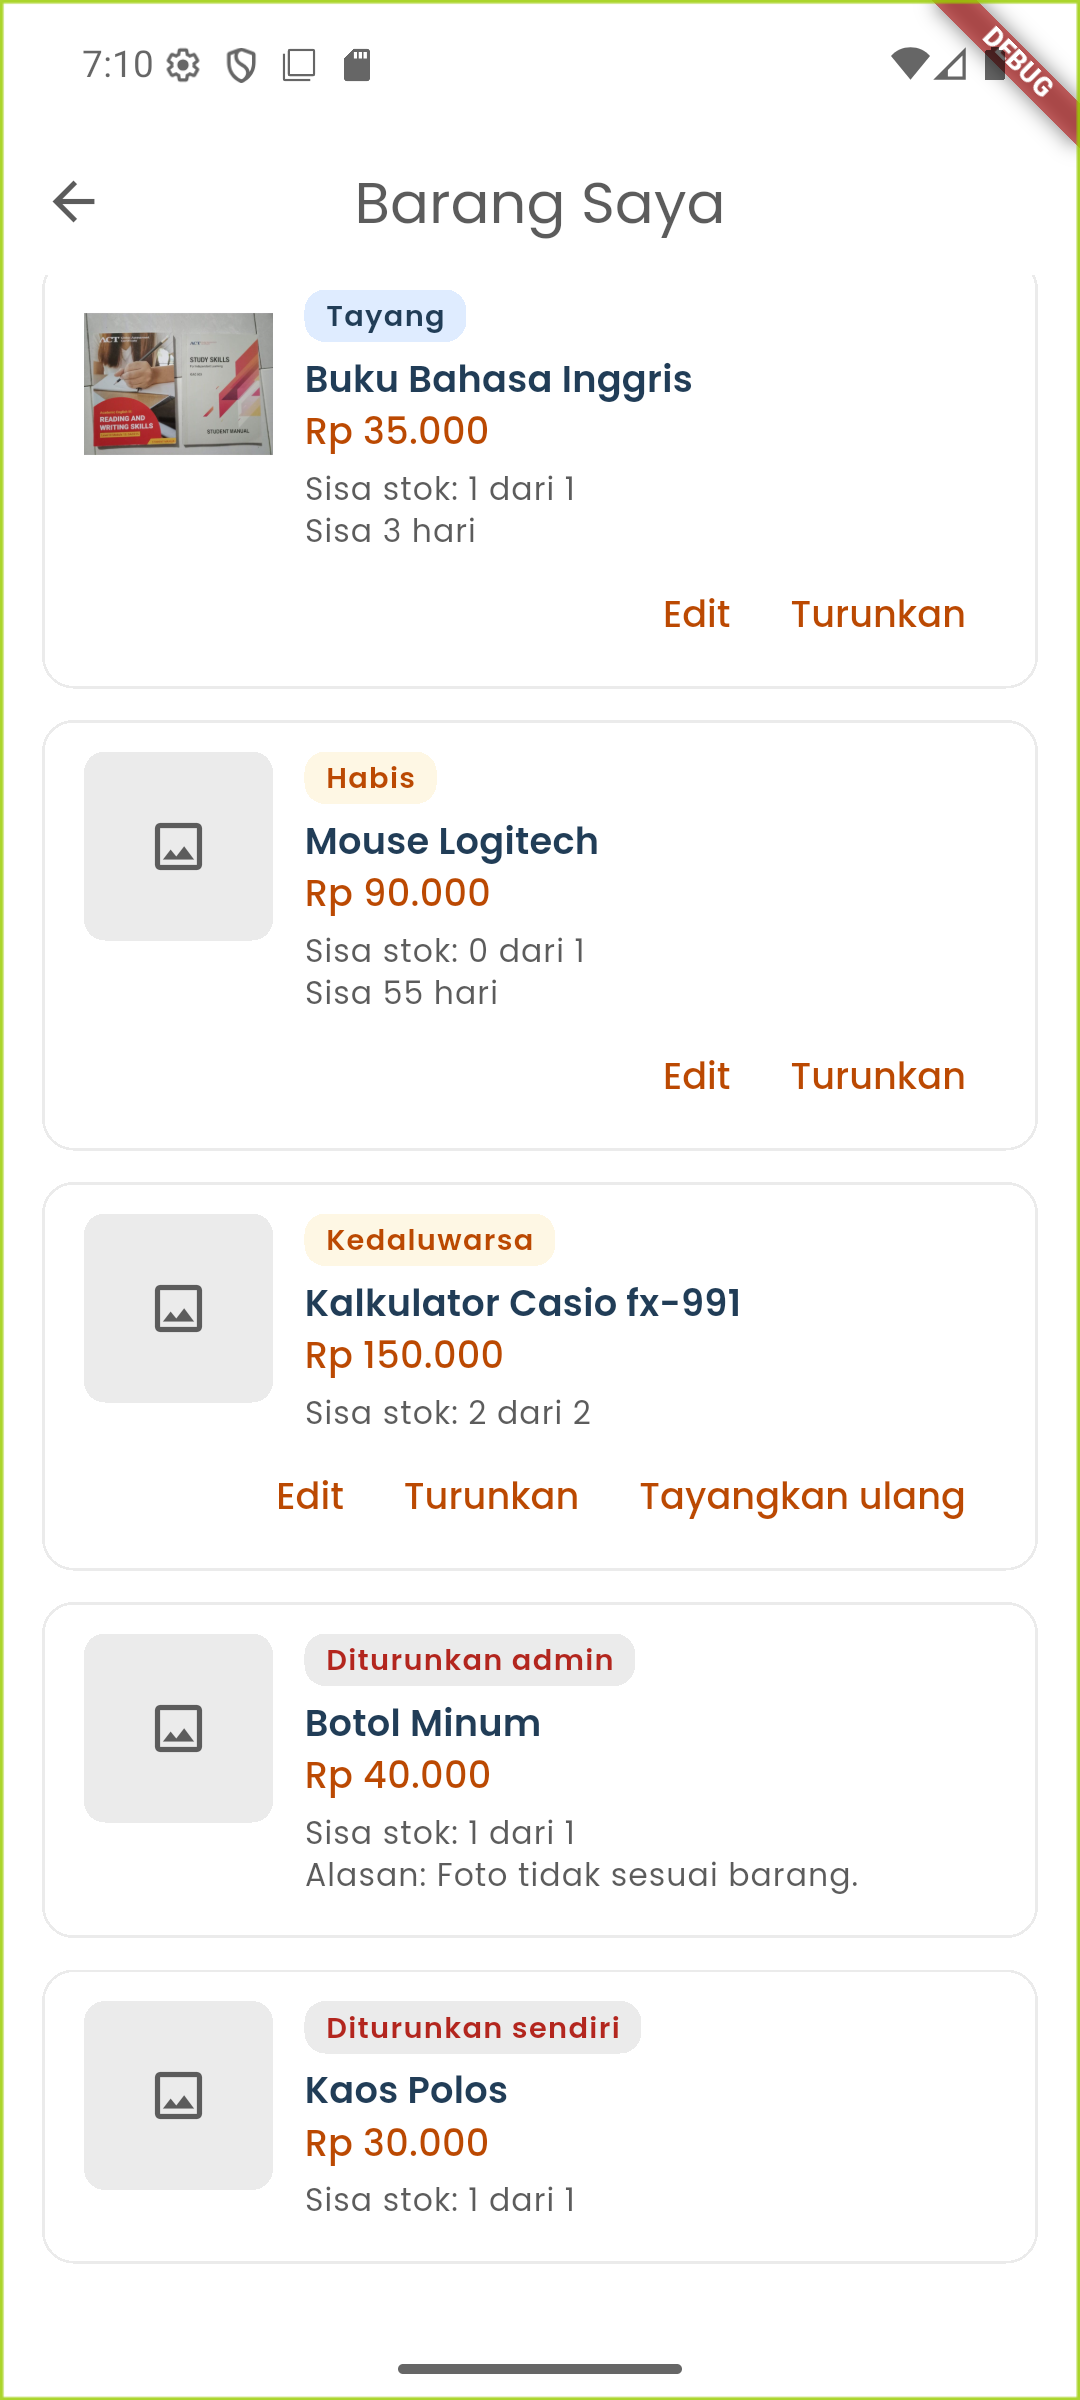
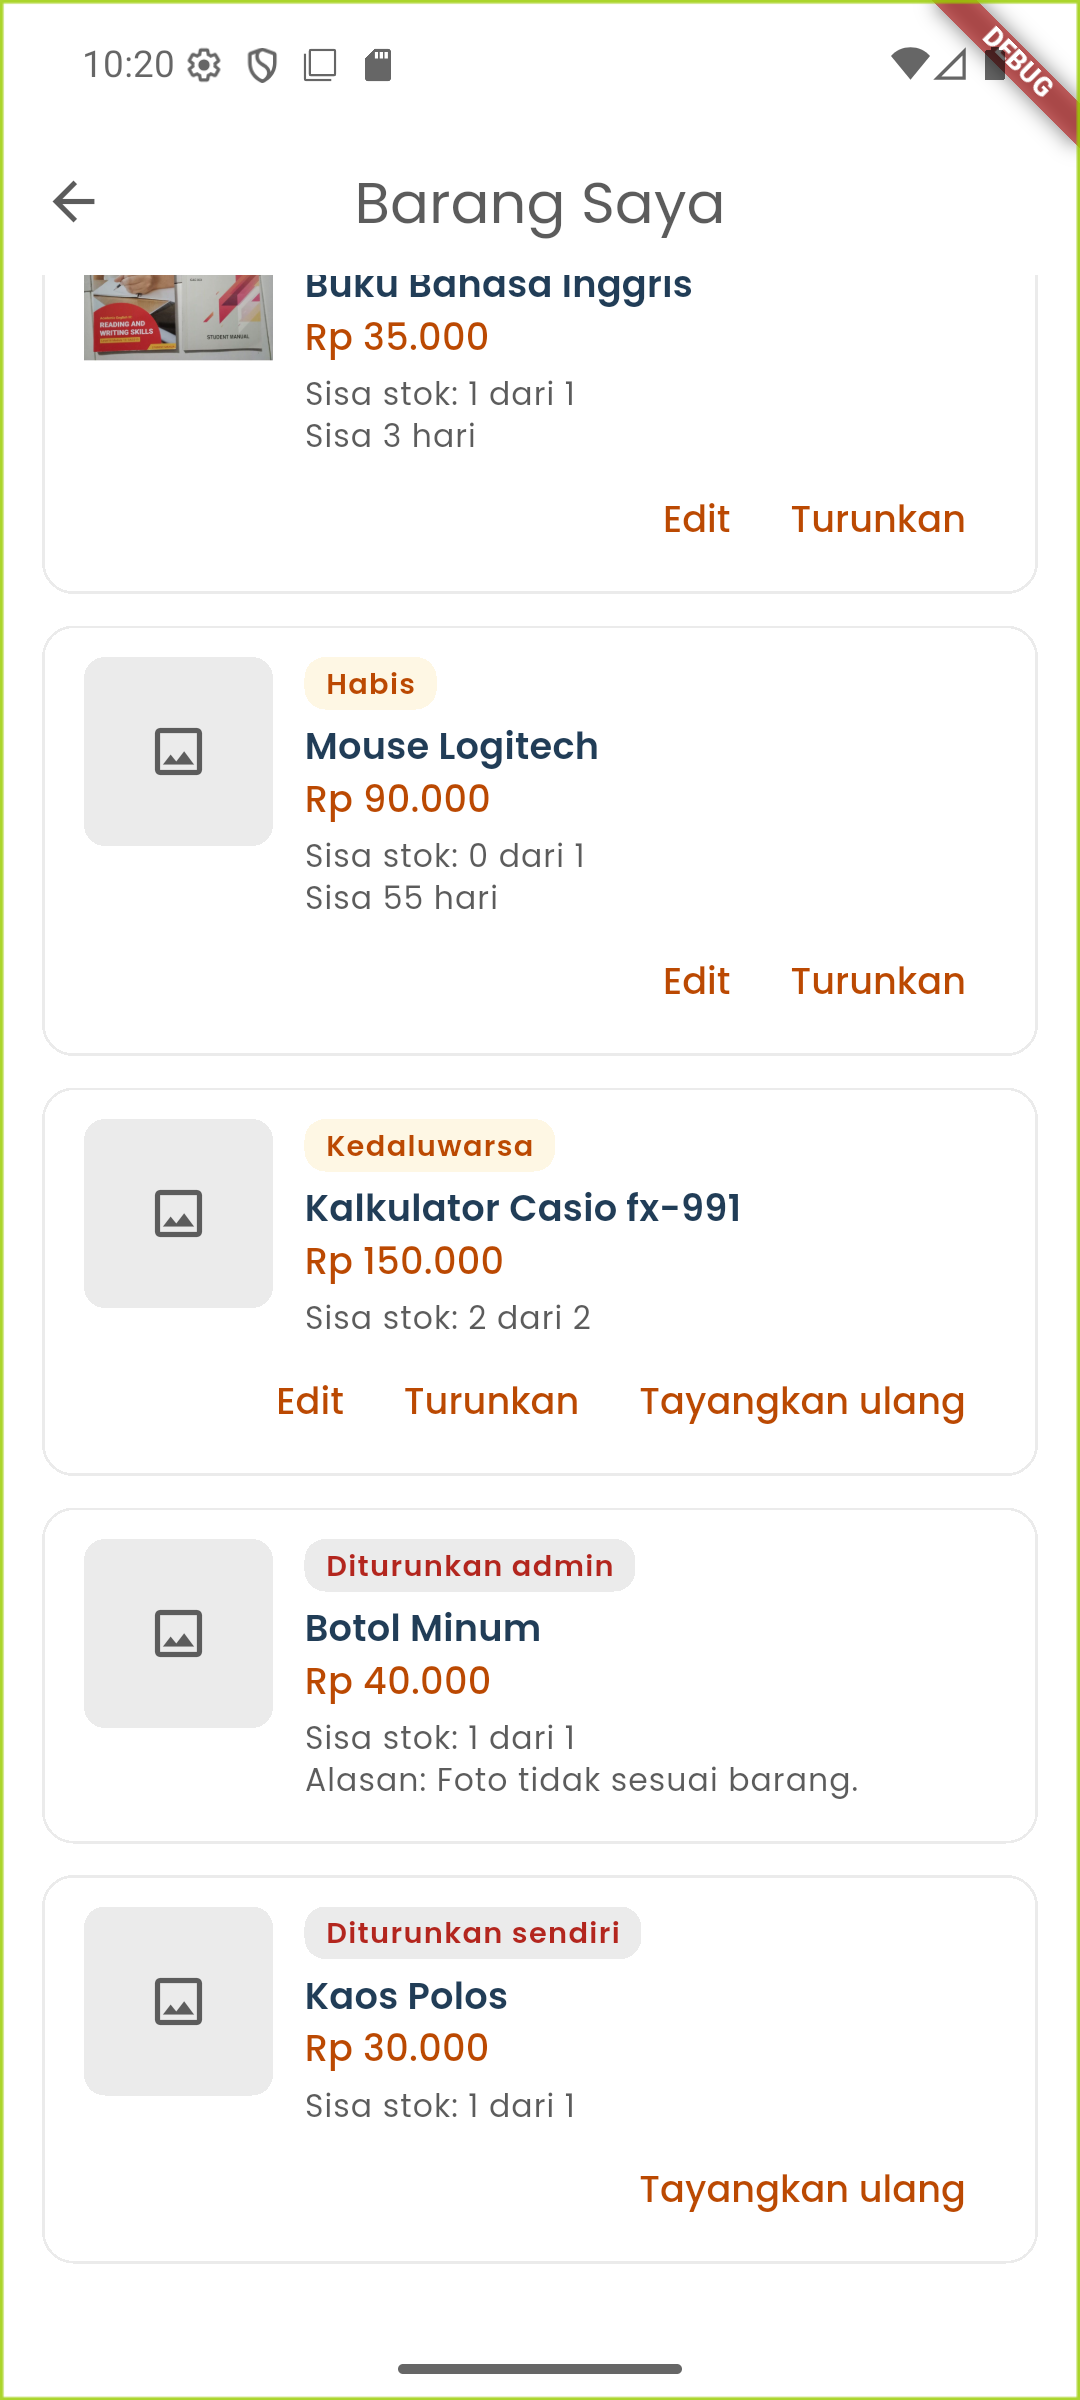
docs: Istilah Barang Saya di CONTEXT dan screenshot listing diturunkan sendiri (#83)

diff --git a/CONTEXT.md b/CONTEXT.md
@@ -1,6 +1,6 @@
 # BeeKas
 
-BeeKas is a marketplace for the BINUS community to sell and donate used goods. This glossary covers onboarding, registration, and sign-in.
+BeeKas is a marketplace for the BINUS community to sell and donate used goods. This glossary covers onboarding, registration, sign-in, and listings.
 
 ## Language
 
@@ -63,6 +63,22 @@ The card photo, selfie, and verification review together.
 
 **Sign-in identifier**:
 The BINUS email or phone number a member types to sign in.
+
+**Live (Tayang)**:
+A listing shown in the catalog: not removed by an admin, not withdrawn, not expired, stock left above zero, and its seller approved and not frozen.
+_Avoid_: active (the old `is_active` column is gone)
+
+**Withdrawn (Diturunkan sendiri)**:
+A listing its seller took down. The quota is not returned; it can be relisted for free (D-45).
+_Avoid_: deleted
+
+**Removed (Diturunkan admin)**:
+A listing an admin took down, with a reason shown to the seller. It cannot be relisted.
+_Avoid_: banned, deleted
+
+**Relist (Tayang ulang)**:
+Giving an expired or withdrawn listing another 60 days from now, without using quota.
+_Avoid_: renew, repost
 
 ## Relationships
 
